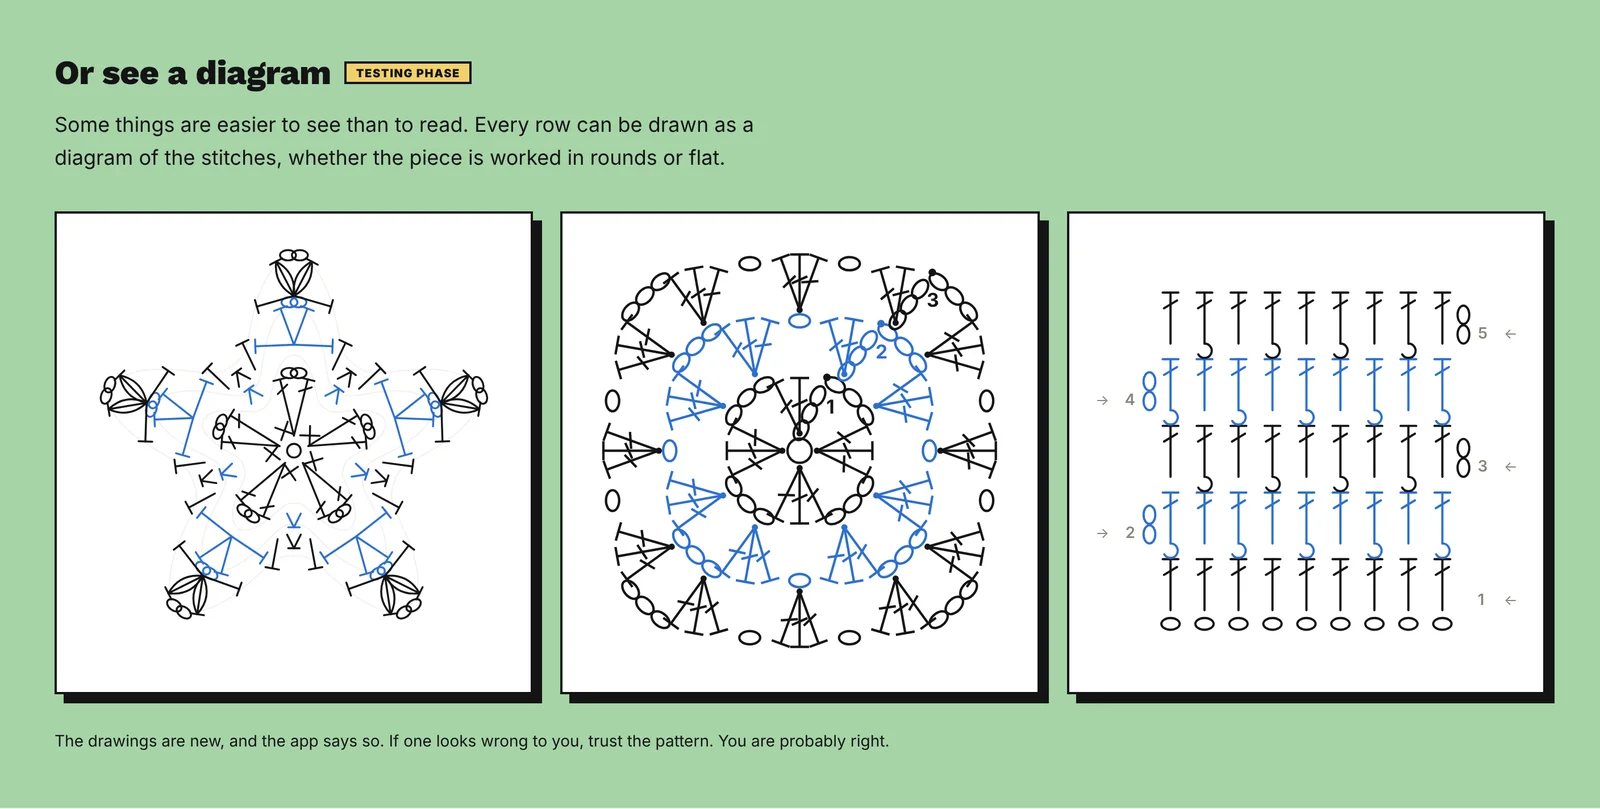
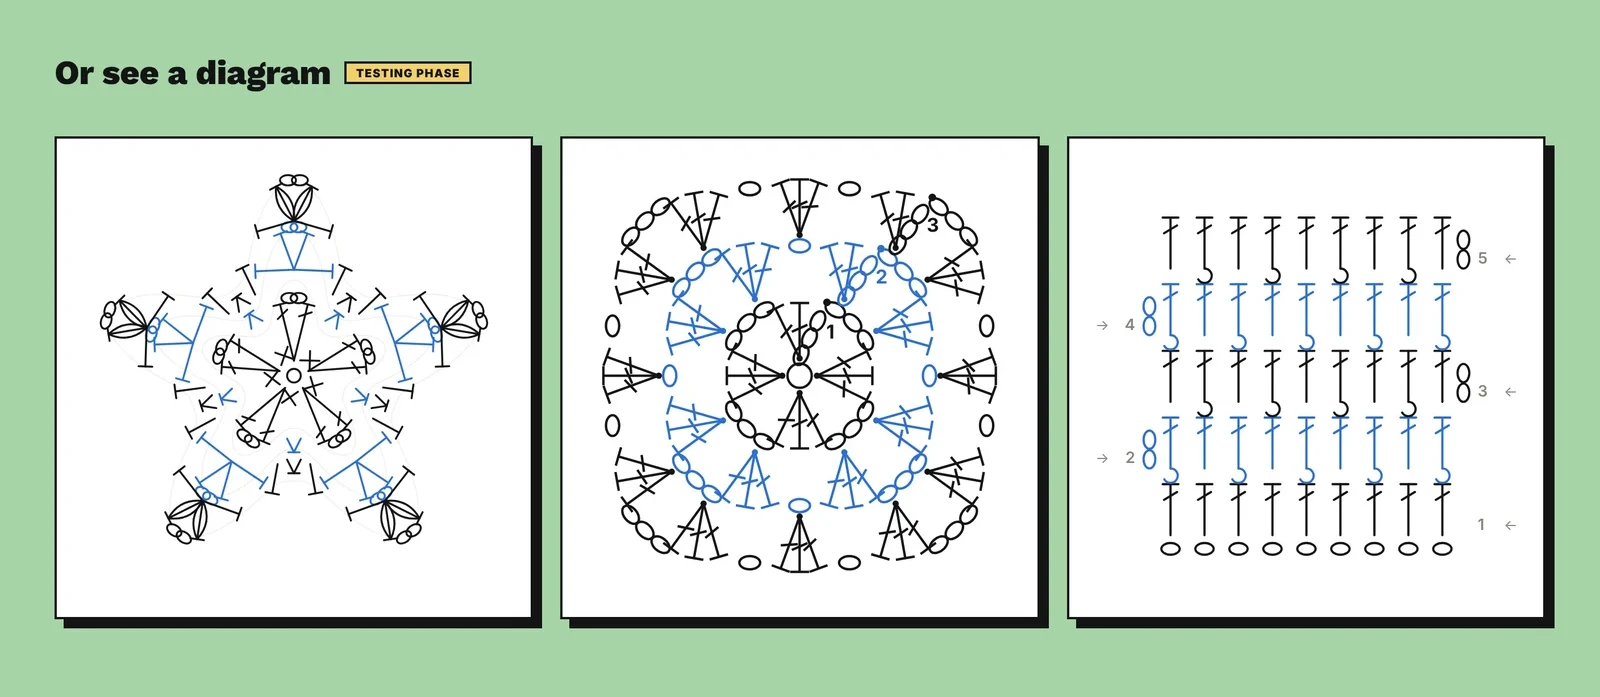
Diagrams picture: keep the title, drop the small text inside it
Claude-Session: https://claude.ai/code/session_01AEbKMrsaeiiooea7bnJphi

diff --git a/src/content/caseStudies.tsx b/src/content/caseStudies.tsx
@@ -48,7 +48,7 @@ export type CaseStudy = {
   tldr?: { points: { label: string; body: React.ReactNode }[]; stats?: { value: string; label: string }[] };
 };
 
-const knotSizes: Record<string, [number, number]> = {"tap-a-row": [918, 922], "the-key": [918, 914], "plain-words": [1600, 636], "diagrams": [1600, 809], "your-place": [918, 646], "your-size": [1392, 694], "your-hook": [918, 798], "yarns": [920, 830]};
+const knotSizes: Record<string, [number, number]> = {"tap-a-row": [918, 922], "the-key": [918, 914], "plain-words": [1600, 636], "diagrams": [1600, 697], "your-place": [918, 646], "your-size": [1392, 694], "your-hook": [918, 798], "yarns": [920, 830]};
 /* A Knot a Problem image, with its size so pairs can be laid out at equal heights */
 const knotBg: Record<string, string> = {"diagrams": "#a6d4a7", "plain-words": "#f1d16c", "tap-a-row": "#f1d16c", "the-key": "#f1d16c", "yarns": "#899cee", "your-hook": "#8a9ded", "your-place": "#a6d4a7", "your-size": "#8a9ded"};
 const k = (name: string, alt: string): Img => ({ src: `/work/knot/${name}.webp`, alt, w: knotSizes[name][0], h: knotSizes[name][1], bg: knotBg[name] });
